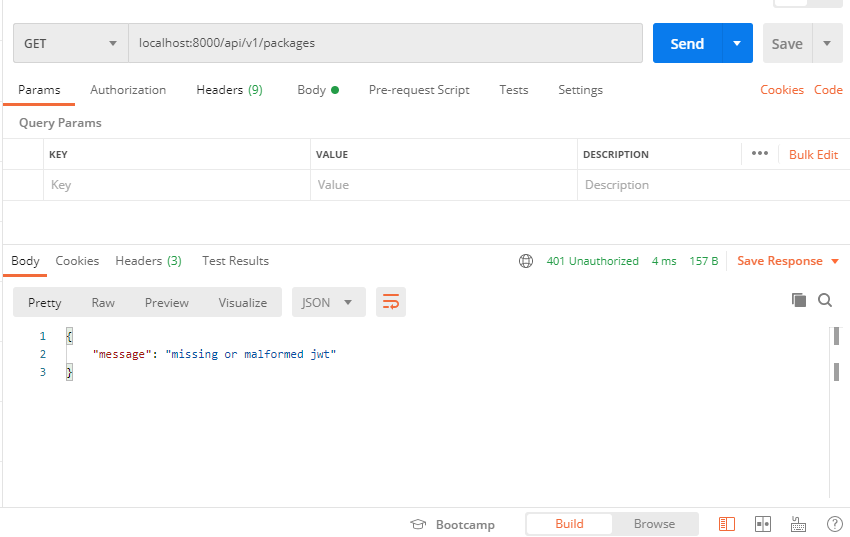
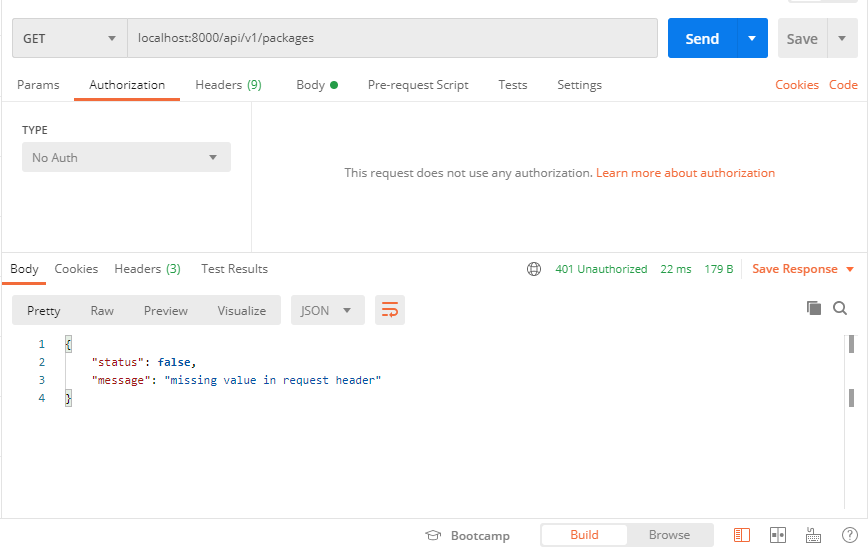
fix: add custom error handler for jwt

diff --git a/18_Middleware/Praktikum/Prioritas_1/middlewares/auth.go b/18_Middleware/Praktikum/Prioritas_1/middlewares/auth.go
@@ -27,6 +27,16 @@ func (jwtConfig *JWTConfig) Init() echojwt.Config {
 			return new(JWTCustomClaims)
 		},
 		SigningKey: []byte(jwtConfig.SecretKey),
+		ErrorHandler: func(c echo.Context, err error) error {
+			if err != nil {
+				return c.JSON(http.StatusUnauthorized, models.BaseResponse{
+					Status:  false,
+					Message: err.Error(),
+				})
+			}
+
+			return nil
+		},
 	}
 }
 
